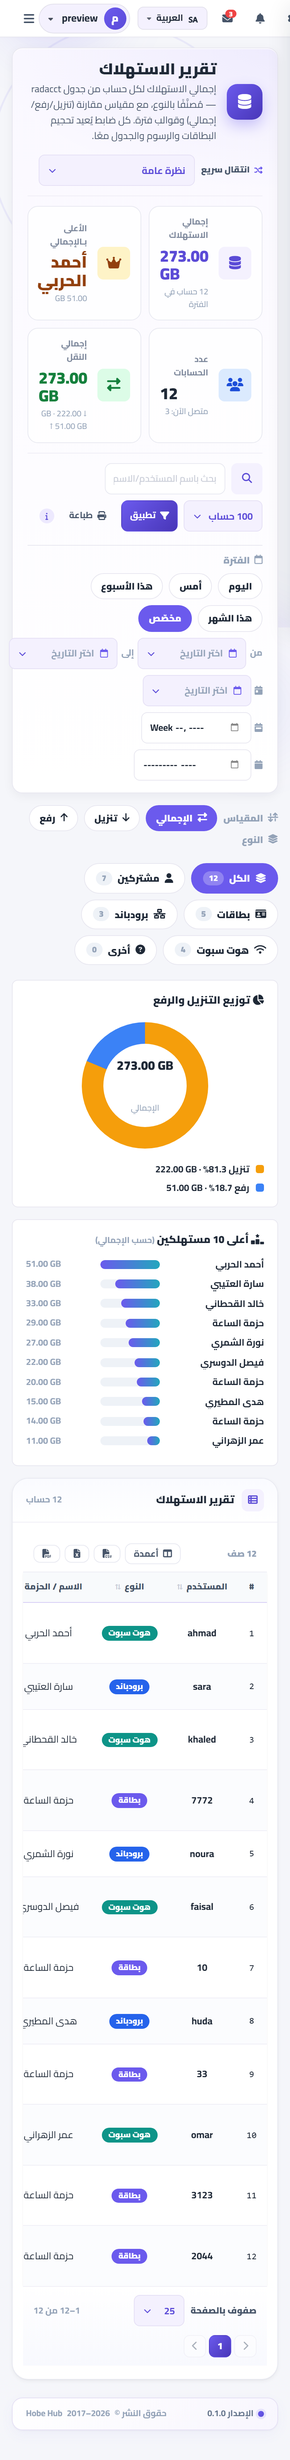
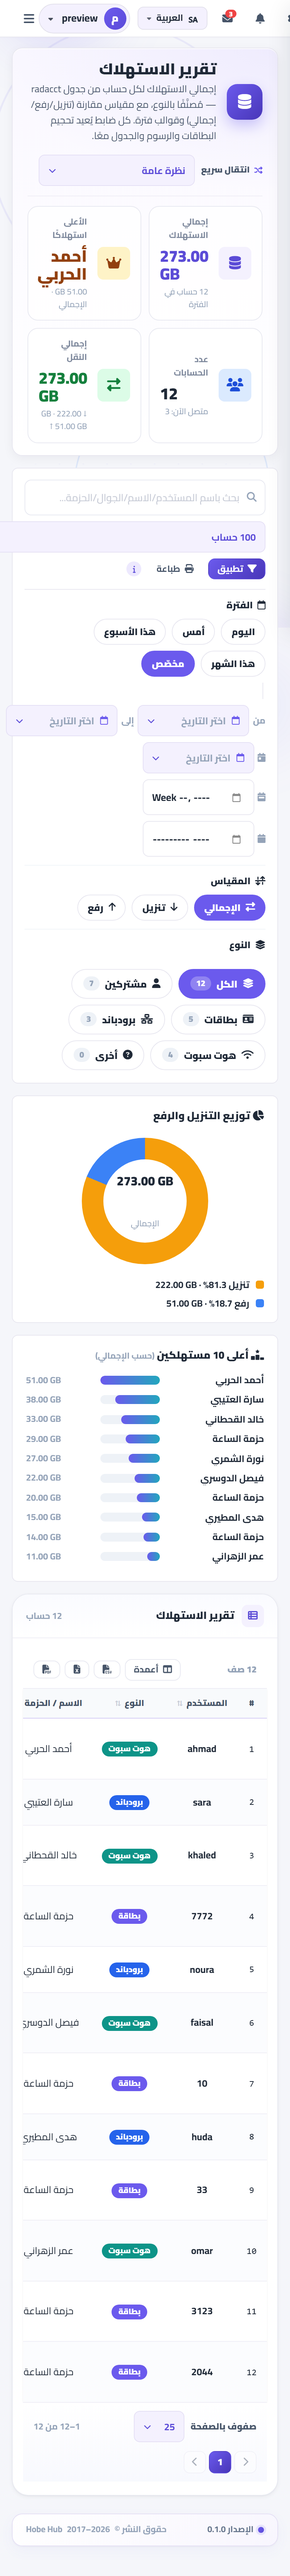
polish(usage-report): تنظيف شامل لمنطقة الفلاتر — بطاقة فلاتر موحّدة
تدقيق UI/UX كامل لصفحة «تقرير الاستهلاك» (طلب المالك بعد ملاحظة عيوب
صقل أوسع من إصلاح التاريخ المكرّر):

• تكرار: أُزيلت منتقيتا التاريخ من شريط البحث العلوي نهائيًّا — «الفترة»
  صارت المصدر الوحيد (كل حقل تاريخ مرّة واحدة، لا حقول مخفيّة مكرّرة).
• ربط/مكدّس متماسك: كانت «الفترة» داخل حزام الهيرو و«المقياس»/«النوع»
  أسفله (انفصال بصري). الآن الهيرو = عنوان+مؤشرات فقط، وكل الفلاتر في
  بطاقة واحدة: شريط أدوات (بحث+حجم+تطبيق+طباعة) ثم مكدّس الفترة→المقياس
  →النوع بفواصل خفيفة وتسميات بعمود محاذاة موحّد.
• حاويات متناسقة: استُبدلت الحاويتان المختلفتان (usage-controls + صفّ
  عارٍ) بصفوف usage-row موحّدة المسافات.
• ازدحام «الفترة»: فاصل رأسي بين القوالب السريعة والمنتقيات المحدّدة +
  حدّ أقصى لعرض حقول التاريخ (لا تتمدّد).
• KPI: «الأعلى بـالإجمالي» (صياغة ملتصقة) → «الأعلى استهلاكًا» (ثابت
  مختصر، لا التفاف) مع المقياس في السطر الفرعي «… · رفع».
• بحث: حقل ببادئة أيقونة عدسة داخل البطاقة، عرض مرن نظيف.
• mobile: التسمية تأخذ سطرًا كاملًا تحت 640px فلا ازدحام.

لا تغيير في منطق البيانات (reports.py دون مساس). Cairo/RTL/نظام التصميم
سليم. اختبار 44 (حدّث test_metric_label للعنوان الجديد + يبقى
test_single_date_control_set: حقل تاريخ واحد لكلٍّ، لا نموذج يتيم).
لقطتا preview محدّثتان. بلا دمج.

diff --git a/app/templates/radius/rep_subscriber_consumption.html b/app/templates/radius/rep_subscriber_consumption.html
@@ -31,23 +31,29 @@
   .usage-tab-count{font-size:11px;font-weight:800;padding:1px 8px;border-radius:999px;
     background:var(--hub-bg,#eef2f7);color:var(--hub-text-mute,#475569);direction:ltr}
   .usage-tab.is-active .usage-tab-count{background:rgba(255,255,255,.25);color:#fff}
-  /* ── صفوف ضوابط الفترة/المقياس ── */
-  .usage-controls{display:flex;flex-direction:column;gap:8px;margin:12px 0 2px}
-  .usage-ctl-row{display:flex;align-items:center;flex-wrap:wrap;gap:8px}
-  .usage-ctl-label{font-size:12.5px;font-weight:800;color:var(--hub-text-mute,#475569);
-    min-width:62px;display:inline-flex;align-items:center;gap:6px}
+  /* ── بطاقة الفلاتر الموحّدة: شريط أدوات + صفوف الفترة/المقياس/النوع ── */
+  .usage-filter{background:var(--hub-bg-card,#fff);border:1px solid var(--hub-border,#e6eaf2);
+    border-radius:var(--hub-r-md,14px);padding:2px 16px;margin:16px 0 6px}
+  .usage-toolbar{display:flex;align-items:center;flex-wrap:wrap;gap:8px;
+    padding:13px 0;border-bottom:1px solid var(--hub-border,#eef2f7)}
+  .usage-search{position:relative;flex:1 1 260px;min-width:190px;display:flex;align-items:center}
+  .usage-search > i{position:absolute;inset-inline-start:12px;font-size:13px;
+    color:var(--hub-text-mute,#94a3b8);pointer-events:none}
+  .usage-search .hub-input{width:100%;padding-inline-start:34px}
+  .usage-row{display:flex;align-items:center;flex-wrap:wrap;gap:8px 10px;padding:11px 0}
+  .usage-row + .usage-row{border-top:1px solid var(--hub-bg,#f1f5f9)}
+  .usage-ctl-label{font-size:12.5px;font-weight:800;color:var(--hub-text,#334155);
+    min-width:64px;display:inline-flex;align-items:center;gap:6px;flex:0 0 auto}
   .usage-tabs.sm{margin:0}
   .usage-tabs.sm .usage-tab{padding:7px 13px;font-size:12.5px}
-  /* صفّ الفترة الوحيد داخل حزام الهيرو (يلتفّ لسطر كامل تحت البحث) —
-     مصدر التاريخ الوحيد، لا تكرار في الأعلى. */
-  .usage-period{flex-basis:100%;width:100%;display:flex;align-items:center;
-    flex-wrap:wrap;gap:8px;margin-top:10px;padding-top:10px;
-    border-top:1px solid var(--hub-border,#e6eaf2)}
-  /* منتقيات التاريخ المحدّدة: نرث إصلاح وضوح التقويم (no dark-on-dark). */
+  .usage-period-sep{flex:0 0 1px;align-self:stretch;min-height:22px;
+    background:var(--hub-border,#e6eaf2);margin:0 3px}
+  /* منتقيات التاريخ: مدى مخصّص + يوم/أسبوع/شهر — وضوح تقويم سليم. */
   .usage-spec{display:inline-flex;align-items:center;gap:5px;font-size:12px;
     font-weight:700;color:var(--hub-text-mute,#475569)}
-  .usage-spec input{color-scheme:light}
+  .usage-spec input{color-scheme:light;max-width:150px}
   .usage-spec input::-webkit-calendar-picker-indicator{filter:invert(.45);cursor:pointer}
+  @media(max-width:640px){.usage-ctl-label{min-width:100%}}
   /* ── شارة النوع في الجدول ── */
   .usage-badge{display:inline-block;font-size:10.5px;font-weight:800;padding:2px 9px;
     border-radius:999px;color:#fff;white-space:nowrap}
@@ -115,11 +121,19 @@
   ('month','هذا الشهر'),('custom','مخصّص')
 ] %}
 {% set _metrics = [('total','الإجمالي','right-left'),('dl','تنزيل','arrow-down'),('ul','رفع','arrow-up')] %}
+{% set _tabs = [
+  ('all','الكل','layer-group'),
+  ('subscriber','مشتركين','user'),
+  ('card','بطاقات','id-card'),
+  ('broadband','برودباند','network-wired'),
+  ('hotspot','هوت سبوت','wifi'),
+  ('other','أخرى','circle-question')
+] %}
 
 {# ───── مؤشرات KPI من الإجماليات (مفلترة بالنوع+الفترة، مرتّبة بالمقياس) ───── #}
 {% set _top_label = (top.display_name or top.username) if top else '—' %}
 <section class="hub-hero-shell" data-testid="usage-hero">
-{% call hub.megahero(
+{{ hub.megahero(
   "تقرير الاستهلاك",
   subtitle="إجمالي الاستهلاك لكل حساب من جدول radacct — مُصنَّفًا بالنوع، مع مقياس مقارنة (تنزيل/رفع/إجمالي) وقوالب فترة. كل ضابط يُعيد تحجيم البطاقات والرسوم والجدول معًا.",
   icon="database",
@@ -127,41 +141,51 @@
   kpis=[
     {'label': 'إجمالي الاستهلاك', 'value': fmt_gb(totals.total), 'icon': 'database', 'variant': 'brand',
      'sub': totals.consumers|string + ' حساب في الفترة'},
-    {'label': 'الأعلى بـ' + _metric_label[metric], 'value': _top_label, 'icon': 'crown', 'variant': 'amber',
-     'sub': (fmt_bytes_raw(top[metric]) if top else 'لا بيانات')},
+    {'label': 'الأعلى استهلاكًا', 'value': _top_label, 'icon': 'crown', 'variant': 'amber',
+     'sub': (fmt_bytes_raw(top[metric]) + ' · ' + _metric_label[metric]) if top else 'لا بيانات'},
     {'label': 'عدد الحسابات', 'value': totals.consumers, 'icon': 'users', 'variant': 'blue',
      'sub': 'متصل الآن: ' + online_now|string},
     {'label': 'إجمالي النقل', 'value': fmt_bytes_raw(totals.total), 'icon': 'right-left', 'variant': 'green',
      'sub': '↓ ' + fmt_bytes_raw(totals.dl) + ' · ↑ ' + fmt_bytes_raw(totals.ul)},
-  ],
-  search_action=url_for('radius.rep_subscriber_consumption')
-) %}
-  {# النوع+المقياس مخفيّان عبر النموذج. ضوابط الفترة كلها في صفٍّ واحد
-     داخل هذا النموذج (مصدر تاريخ وحيد — أُزيلت منتقيات التاريخ المكرّرة
-     من أعلى الحزام). أعلى الحزام: بحث + حجم الصفحة + تطبيق + طباعة فقط. #}
+  ]
+) }}
+</section>{# /hub-hero-shell #}
+
+{# ───── بطاقة الفلاتر الموحّدة: شريط أدوات ثم مكدّس الفترة→المقياس→النوع ─────
+   نموذج GET واحد يضمّ البحث+الحجم+التاريخ (مصدر تاريخ وحيد، لا تكرار). روابط
+   المقياس/النوع داخل البطاقة نفسها للتناسق البصري (تنقّل عبر العنوان). #}
+<form class="usage-filter" method="get" action="{{ url_for('radius.rep_subscriber_consumption') }}"
+      data-testid="usage-controls">
   <input type="hidden" name="type" value="{{ utype }}">
   <input type="hidden" name="metric" value="{{ metric }}">
-  <input class="hub-input grow" type="text" name="q"
-         placeholder="{{ _('بحث باسم المستخدم/الاسم/الجوال/الحزمة...') }}" value="{{ q or '' }}">
-  <select class="hub-select" name="limit">
-    {% for n in [100, 200, 500, 1000] %}
-      <option value="{{ n }}" {% if limit == n %}selected{% endif %}>{{ n }} حساب</option>
-    {% endfor %}
-  </select>
-  {{ hub.btn("تطبيق", icon="filter", variant="primary", type="submit", size="sm") }}
-  {{ hub.btn("طباعة", icon="print", variant="ghost", size="sm",
-             attrs='onclick="window.print();return false;"') }}
-  {% if q or utype != 'all' or metric != 'total' or preset != 'custom' or _cf or _ct %}
-    {{ hub.btn("إعادة ضبط", icon="rotate-left", variant="ghost", size="sm",
-               attrs='onclick="window.location=' + "'" + url_for('radius.rep_subscriber_consumption') + "'" + '"') }}
-  {% endif %}
-  <span class="hub-hint" tabindex="0"
-        data-hint="بطاقة=قسيمة هوت سبوت (جدول cards)؛ مشترك=حساب مُسمّى؛ برودباند=PPPoE؛ هوت سبوت=مشترك هوت سبوت؛ أخرى=غير مرتبط. المقياس يقود الترتيب وأعلى-10. التجميع على تاريخ بداية الجلسة."><i class="fa-solid fa-info"></i></span>
-  {# ── الفترة: المصدر الوحيد لاختيار التاريخ (داخل نموذج الحزام نفسه) ──
-     قوالب سريعة (روابط) + مدى مخصّص من/إلى + منتقيات يوم/أسبوع/شهر. تحرير
-     «مخصّص» يمسح المنتقيات المحدّدة كي يفوز المدى (أولوية الخادم:
-     قالب>محدّد>مخصّص). #}
-  <div class="usage-period" data-testid="usage-date-presets">
+
+  {# ── شريط الأدوات: بحث + حجم الصفحة + تطبيق + طباعة ── #}
+  <div class="usage-toolbar">
+    <span class="usage-search">
+      <i class="fa-solid fa-magnifying-glass"></i>
+      <input class="hub-input" type="text" name="q"
+             placeholder="{{ _('بحث باسم المستخدم/الاسم/الجوال/الحزمة...') }}" value="{{ q or '' }}">
+    </span>
+    <select class="hub-select" name="limit" title="{{ _('عدد الصفوف') }}">
+      {% for n in [100, 200, 500, 1000] %}
+        <option value="{{ n }}" {% if limit == n %}selected{% endif %}>{{ n }} حساب</option>
+      {% endfor %}
+    </select>
+    {{ hub.btn("تطبيق", icon="filter", variant="primary", type="submit", size="sm") }}
+    {{ hub.btn("طباعة", icon="print", variant="ghost", size="sm",
+               attrs='onclick="window.print();return false;"') }}
+    {% if q or utype != 'all' or metric != 'total' or preset != 'custom' or _cf or _ct %}
+      {{ hub.btn("إعادة ضبط", icon="rotate-left", variant="ghost", size="sm",
+                 attrs='onclick="window.location=' + "'" + url_for('radius.rep_subscriber_consumption') + "'" + '"') }}
+    {% endif %}
+    <span class="hub-hint" tabindex="0"
+          data-hint="بطاقة=قسيمة هوت سبوت (جدول cards)؛ مشترك=حساب مُسمّى؛ برودباند=PPPoE؛ هوت سبوت=مشترك هوت سبوت؛ أخرى=غير مرتبط. المقياس يقود الترتيب وأعلى-10. التجميع على تاريخ بداية الجلسة."><i class="fa-solid fa-info"></i></span>
+  </div>
+
+  {# ── الفترة: المصدر الوحيد لاختيار التاريخ — قوالب سريعة | مدى مخصّص |
+     منتقيات يوم/أسبوع/شهر. تحرير «مخصّص» يمسح المنتقيات كي يفوز المدى
+     (أولوية الخادم: قالب>محدّد>مخصّص). ── #}
+  <div class="usage-row" data-testid="usage-date-presets">
     <span class="usage-ctl-label"><i class="fa-regular fa-calendar"></i> {{ _('الفترة') }}</span>
     <div class="usage-tabs sm">
       {% for pk, plabel in _presets %}
@@ -171,6 +195,7 @@
                           q=_cq, limit=limit) }}">{{ plabel }}</a>
       {% endfor %}
     </div>
+    <span class="usage-period-sep" aria-hidden="true"></span>
     <span class="usage-spec">{{ _('من') }}
       <input class="hub-input" type="date" name="date_from"
              value="{{ filters.date_from if filters else '' }}" title="{{ _('من تاريخ (مخصّص)') }}"
@@ -189,12 +214,9 @@
       <input class="hub-input" type="month" name="spec_month" value="{{ spec_month }}"
              title="{{ _('شهر محدّد') }}" onchange="this.form.submit()"></label>
   </div>
-{% endcall %}
-</section>{# /hub-hero-shell #}
 
-{# ───── ضوابط المقياس (الفترة صارت في حزام الهيرو أعلاه) ───── #}
-<div class="usage-controls" data-testid="usage-controls">
-  <div class="usage-ctl-row" data-testid="usage-metric">
+  {# ── المقياس (روابط تنقّل) ── #}
+  <div class="usage-row" data-testid="usage-metric">
     <span class="usage-ctl-label"><i class="fa-solid fa-arrow-down-up-across-line"></i> {{ _('المقياس') }}</span>
     <div class="usage-tabs sm">
       {% for mk, mlabel, micon in _metrics %}
@@ -206,32 +228,23 @@
       {% endfor %}
     </div>
   </div>
-</div>
 
-{# ───── تبويبات النوع البارزة — تختار واحدًا فيُعاد تحجيم كل شيء ───── #}
-{% set _tabs = [
-  ('all','الكل','layer-group'),
-  ('subscriber','مشتركين','user'),
-  ('card','بطاقات','id-card'),
-  ('broadband','برودباند','network-wired'),
-  ('hotspot','هوت سبوت','wifi'),
-  ('other','أخرى','circle-question')
-] %}
-<div class="usage-ctl-row">
-  <span class="usage-ctl-label"><i class="fa-solid fa-layer-group"></i> {{ _('النوع') }}</span>
-  <div class="usage-tabs" data-testid="usage-type-tabs">
-    {% for tk, tlabel, ticon in _tabs %}
-    <a class="usage-tab{% if utype == tk %} is-active{% endif %}"
-       data-usage-tab="{{ tk }}"
-       href="{{ url_for('radius.rep_subscriber_consumption', type=tk, metric=metric, preset=preset,
-                        spec_day=_csd, spec_week=_csw, spec_month=_csm,
-                        date_from=_cf, date_to=_ct, q=_cq, limit=limit) }}">
-      <i class="fa-solid fa-{{ ticon }}"></i> {{ tlabel }}
-      <span class="usage-tab-count">{{ counts[tk] }}</span>
-    </a>
-    {% endfor %}
+  {# ── النوع (روابط تنقّل) ── #}
+  <div class="usage-row">
+    <span class="usage-ctl-label"><i class="fa-solid fa-layer-group"></i> {{ _('النوع') }}</span>
+    <div class="usage-tabs" data-testid="usage-type-tabs">
+      {% for tk, tlabel, ticon in _tabs %}
+      <a class="usage-tab{% if utype == tk %} is-active{% endif %}" data-usage-tab="{{ tk }}"
+         href="{{ url_for('radius.rep_subscriber_consumption', type=tk, metric=metric, preset=preset,
+                          spec_day=_csd, spec_week=_csw, spec_month=_csm,
+                          date_from=_cf, date_to=_ct, q=_cq, limit=limit) }}">
+        <i class="fa-solid fa-{{ ticon }}"></i> {{ tlabel }}
+        <span class="usage-tab-count">{{ counts[tk] }}</span>
+      </a>
+      {% endfor %}
+    </div>
   </div>
-</div>
+</form>{# /usage-filter #}
 
 {# ───── الرسمان: دائري تنزيل/رفع + أعمدة أعلى 10 (مفلترة بالنوع) ───── #}
 <div class="usage-charts" data-testid="usage-charts">

diff --git a/tests/test_rep_subscriber_consumption.py b/tests/test_rep_subscriber_consumption.py
@@ -268,8 +268,8 @@ def test_metric_default_is_total(app):
 
 def test_metric_label_in_kpi_and_chart(app):
     html = _html(app, "?metric=ul")
-    assert "الأعلى بـرفع" in html          # عنوان KPI يعكس المقياس
-    assert "حسب" in html and "رفع" in html  # عنوان رسم أعلى-10
+    assert "الأعلى استهلاكًا" in html        # عنوان KPI ثابت ومختصر
+    assert "حسب" in html and "رفع" in html  # المقياس يظهر في سطر KPI الفرعي + عنوان أعلى-10
 
 
 def test_metric_combines_with_type(app):
